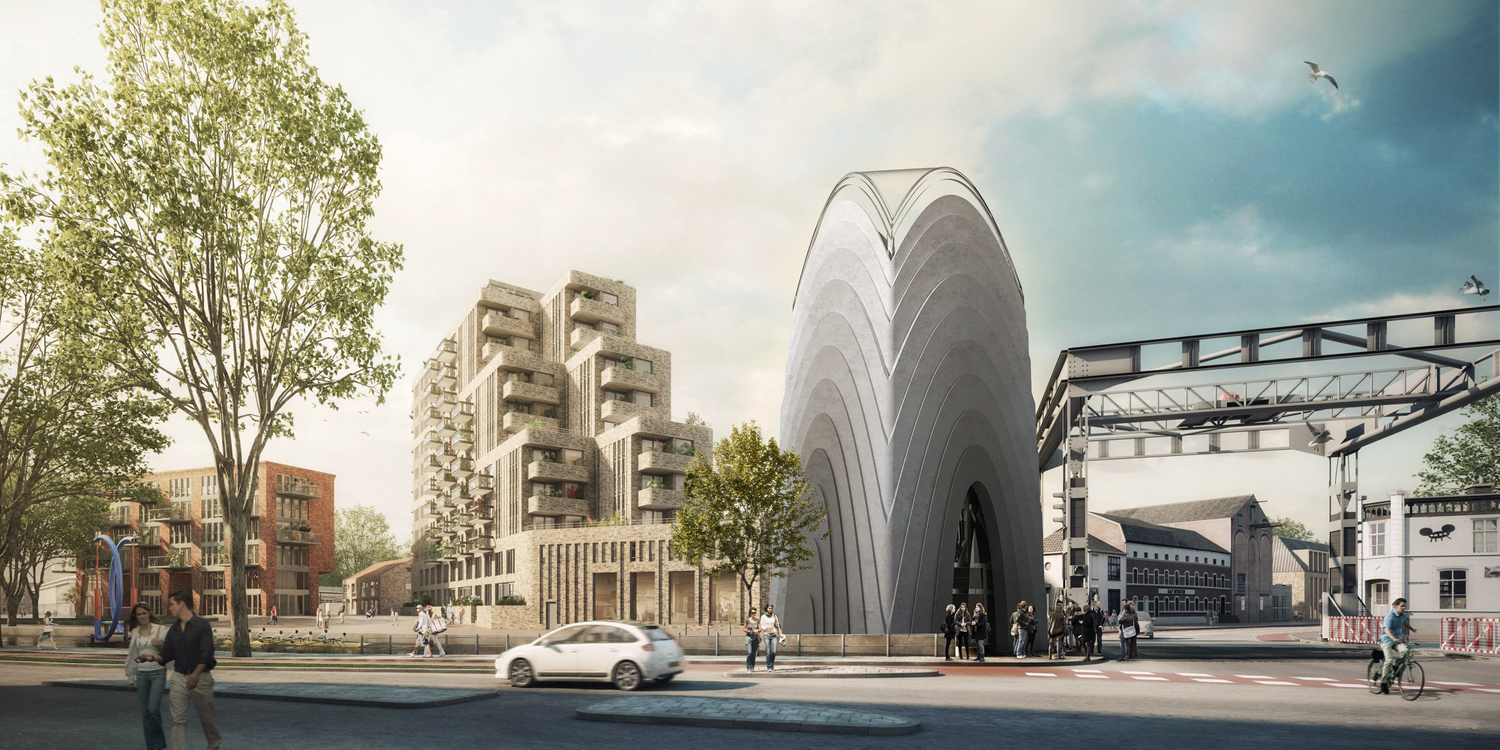
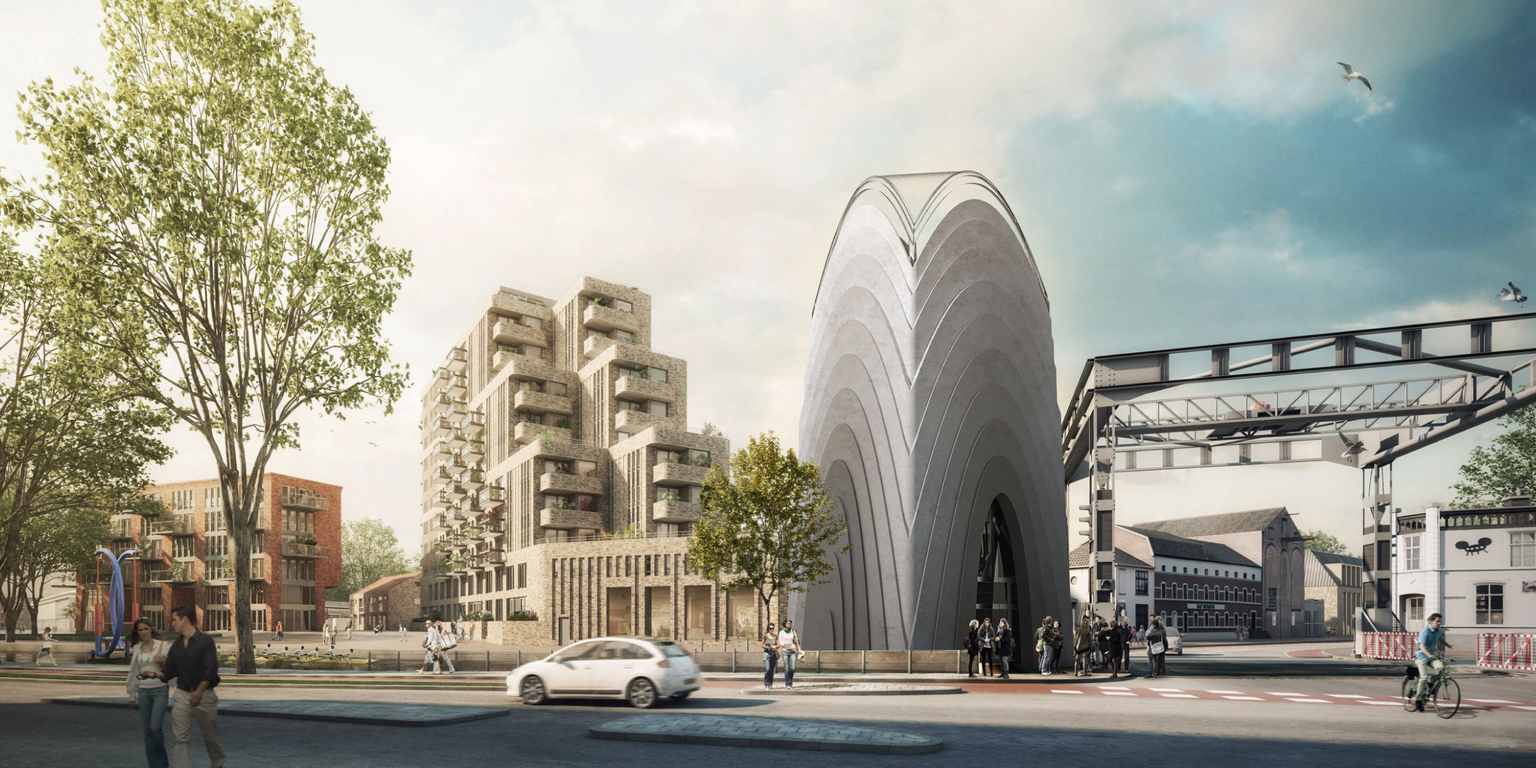
- fine tuned margins and sizes for diff viewports - used smaller photos

diff --git a/src/Facade.js b/src/Facade.js
@@ -16,31 +16,33 @@ class Facade extends Component {
                         Just the way you want it
                     </h1>
                     <div className="cat-image full-width">
-                        <img src={facade1} alt="facade" aria-hidden="true"/>
+                        <img src={facade1} alt="facade" aria-hidden="true" />
                     </div>
                     <div className="content-part">
                         <H2>Implementation of different designs and materials for your facade</H2>
                         <p className="text">Build your dream facade. Considering the availability of
-                        materials in the market, you can build and implement your preferred design 
+                        materials in the market, you can build and implement your preferred design
                         anywhre.</p>
                     </div>
-                    <div className="full-width col2 reverse">
+                    <div className="full-width col2">
                         <div className="col">
+                            <img src={facade2} alt="facade" aria-hidden="true" />
+                        </div>
+                        <div className="col content-part vert-center">
                             <H2>Advertisement solutions</H2>
                             <p className="text">From banners to holograms. You can place your desired
                             advertisement on the facade for maximum profit in your business.</p>
-                            <p className="bold">It's not just a parking system, it's a business 
-                            accelerator.</p>
-                        </div>
-                        <div className="col">
-                            <img src={facade2} alt="facade" aria-hidden="true"/>
+                            <p className="bold">It's not just <br className="desktop" />
+                                a parking system, <br className="desktop" />
+                                it's a business <br className="desktop" />
+                                accelerator.</p>
                         </div>
                     </div>
                     <div className="content-part just-sub">
                         <H2>Satnd out</H2>
                     </div>
                     <div className="cat-image full-width">
-                        <img src={facade3} alt="facade" aria-hidden="true"/>
+                        <img src={facade3} alt="facade" aria-hidden="true" />
                     </div>
                 </div>
             </Frame>

diff --git a/src/index.css b/src/index.css
@@ -97,11 +97,7 @@ a.button:visited{
 }
 
 .content-part{
-  padding: 20px 0;
-}
-.content-part.just-sub{
-  display: flex;
-  justify-content: center;
+  padding: 60px 0;
 }
 
 .title{
@@ -127,12 +123,6 @@ a.button:visited{
   color: #6d6e70;
   margin: 0;
 }
-.bold{
-  font-style: italic;
-  font-weight: bold;
-  line-height: 50px;
-  font-size: 30px;
-}
 
 .container{
   background: #f8f8f8;
@@ -143,11 +133,6 @@ col2>.col{
 }
 col2>.col:last-child{
   padding-bottom: 0;
-}
-.col>h2,.col>p, .col>em,
-.col>h3{
-  margin-right: 64px;
-  margin-left: 64px;
 }
 .col>img{
   width: 100%;
@@ -198,6 +183,10 @@ h3{
   .content-part{
     padding: 130px 0;
   }
+  .content-part.just-sub{
+    display: flex;
+    justify-content: center;
+  }
 
   .title{
     line-height: 68px;
@@ -206,8 +195,8 @@ h3{
   }
 
   .text{
-    font-size: 19px;
-    line-height: 34px;
+    font-size: 17px;
+    line-height: 30px;
   }
 
   .cat-image{
@@ -220,6 +209,10 @@ h3{
   .col2{
     display: flex;
   }
+  .col2 .content-part{
+    padding-top: 0;
+    padding-bottom: 0; 
+  }
   .col2.reverse{
     flex-direction: row-reverse;
   }
@@ -228,15 +221,26 @@ h3{
     flex-grow: 1;
     flex-shrink: 1;
   }
-  .col>h2,.col>p, .col>em,
+  /* .col>h2,.col>p, .col>em,
   .col>h3{
-    margin-right: 130px;
-    margin-left: 130px;
-  }
+    margin-right: 100px;
+    margin-left: 150px;
+  } */
 }
 
 @media screen and (min-width: 1440px){
   .desktop.large{
     visibility: initial;
+  }
+}
+
+@media screen and (min-width: 1920px){
+  .page-inner{
+    max-width: 1100px;
+  }
+
+  .text{
+    font-size: 22px;
+    line-height: 30px;
   }
 }

diff --git a/src/Home-desktop.css b/src/Home-desktop.css
@@ -113,7 +113,8 @@
         letter-spacing: 4px;
     }
     .navigator>li{
-        margin-top: 10px;
+        margin-top: 2px;
+        font-size: 12px;
     }
     .navigator a:link{
         color: #1e2433;
@@ -163,7 +164,7 @@
     }
 
     .home-section>div:first-child h1:first-child{
-        margin-top: 77px;
+        margin-top: 15px;
         
         font-size: 25px;
         line-height: 43px;
@@ -228,7 +229,7 @@
         position: absolute;
         bottom: 0;
         right: 40px;
-        height: 204px;
+        height: 132px;
 
         transition: all 0.2s ease-in-out;
         opacity: 0;
@@ -253,6 +254,16 @@
     }
     .home-section .left-content>*{
         margin-left: 55px;
+    }
+    .home-section>div:first-child h1:first-child{
+        margin-top: 77px;
+    }
+    .navigator>li{
+        margin-top: 10px;
+        font-size: 16px;
+    }
+    .number>img{
+        height: 204px;
     }
 }
 

diff --git a/src/Components/H2/H2.css b/src/Components/H2/H2.css
@@ -1,6 +1,7 @@
 .sub{
     line-height: 33px;
-    margin: 30px 0;
+    margin-top: 0;
+    margin-bottom: 20px;
 }
 
 .sub::before{
@@ -17,15 +18,32 @@
     display: block;
 }
 
+.just-sub .sub{
+    margin-bottom: 0;
+}
+
 @media screen and (min-width: 1024px){
     .sub{
-        font-size: 36px;
+        font-size: 30px;
+        line-height: 48px;
+    }
+    .sub::before{
+        width: 53px;
+        top: 24px;
+    }
+
+    .col2>.col>.sub::before{
+        left: calc(50% - 25vw);
+    }
+}
+
+@media screen and (min-width: 1920px){
+    .sub{
+        font-size: 47px;
+        line-height: 70px;
+        margin-bottom: 40px;
     }
     .sub::before{
         width: 100px;
-    }
-
-    .col2>.col:first-child>.sub::before{
-        left: -130px;
     }
 }

diff --git a/src/Facade.css b/src/Facade.css
@@ -11,3 +11,29 @@
 }.facade>.cat-image:last-child>img{
     width: 250%;
 }
+
+.vert-center{
+    display: flex;
+    flex-direction: column;
+    justify-content: center;
+}
+
+.bold{
+    font-style: italic;
+    font-weight: bold;
+    line-height: 50px;
+    font-size: 30px;
+    margin-top: 40px;
+    margin-bottom: 0;
+}
+
+@media screen and (min-width: 1024px){
+    .bold{
+        margin-top: 30px; 
+    }
+}
+@media screen and (min-width: 1440px){
+    .bold{
+        margin-top: 100px; 
+    }
+}
